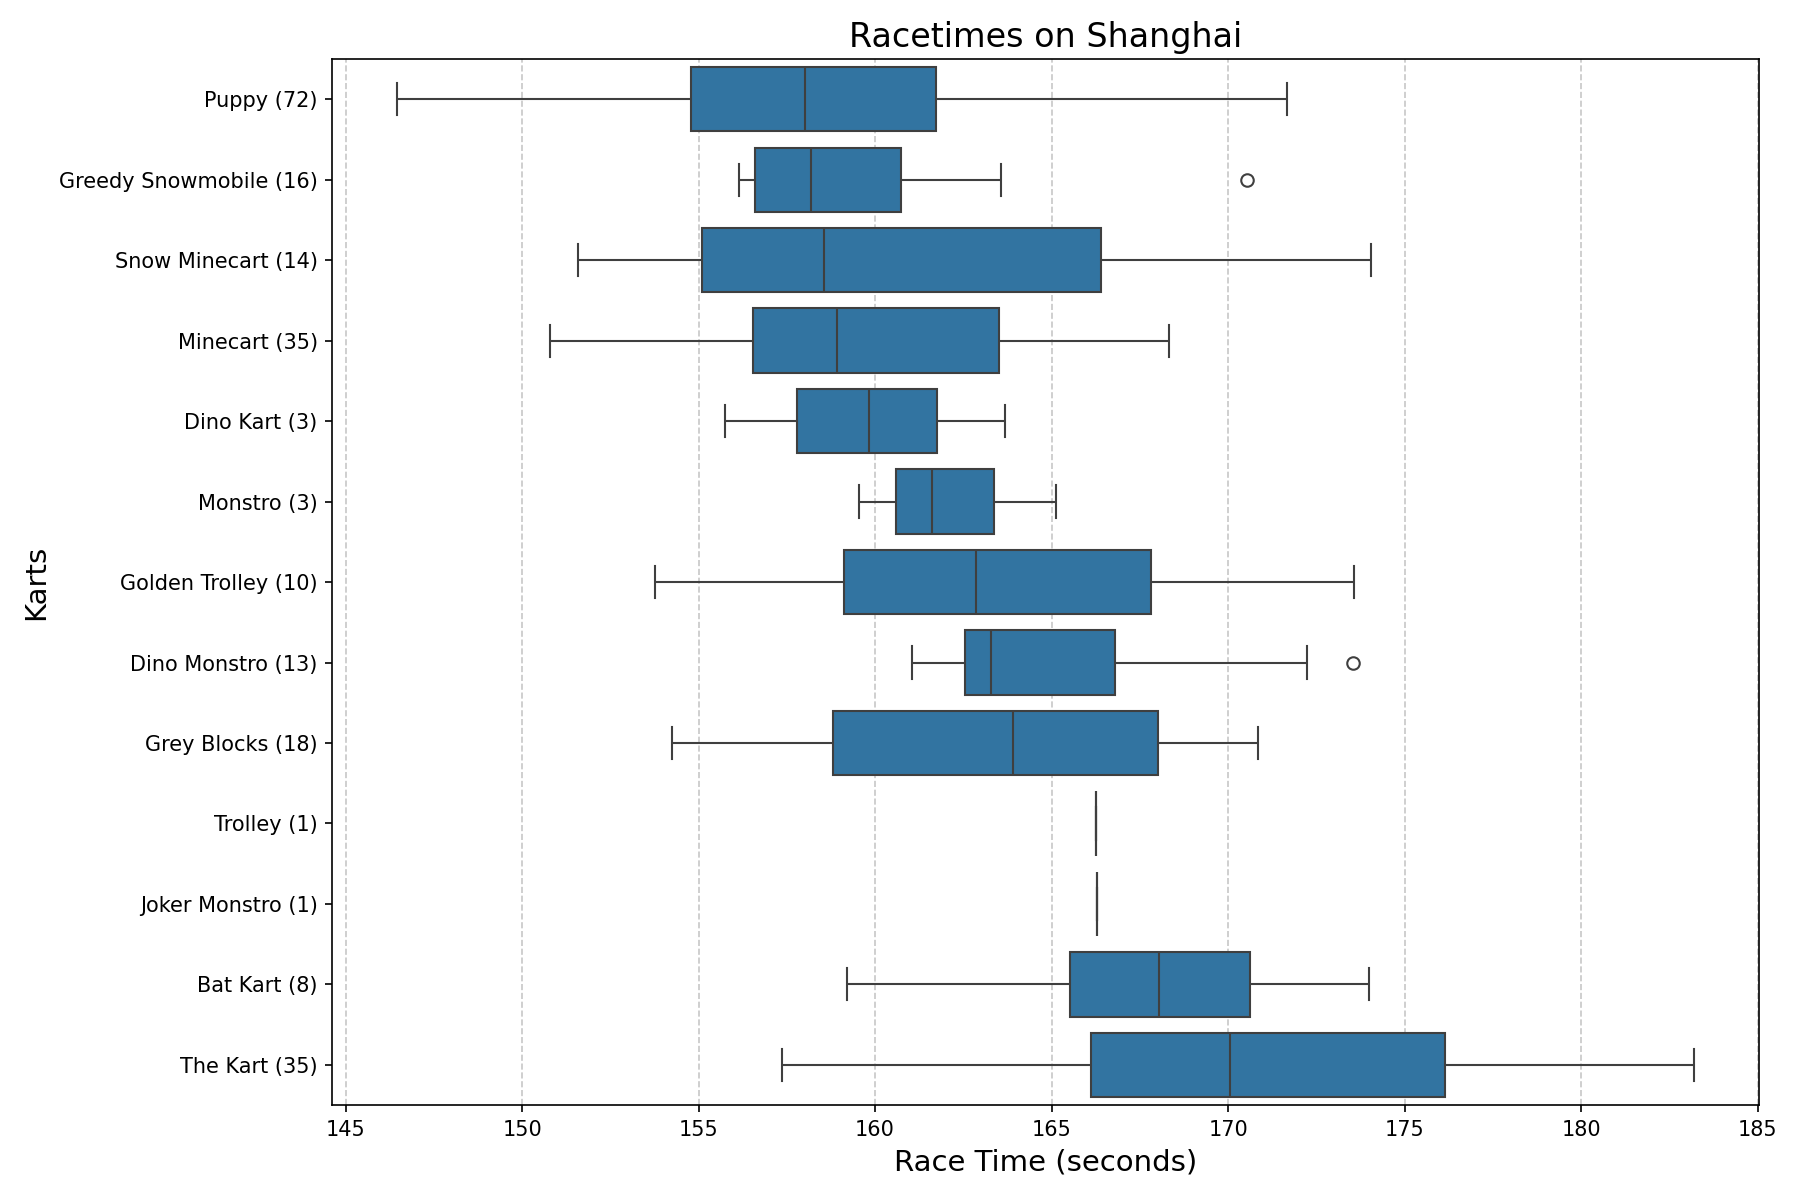
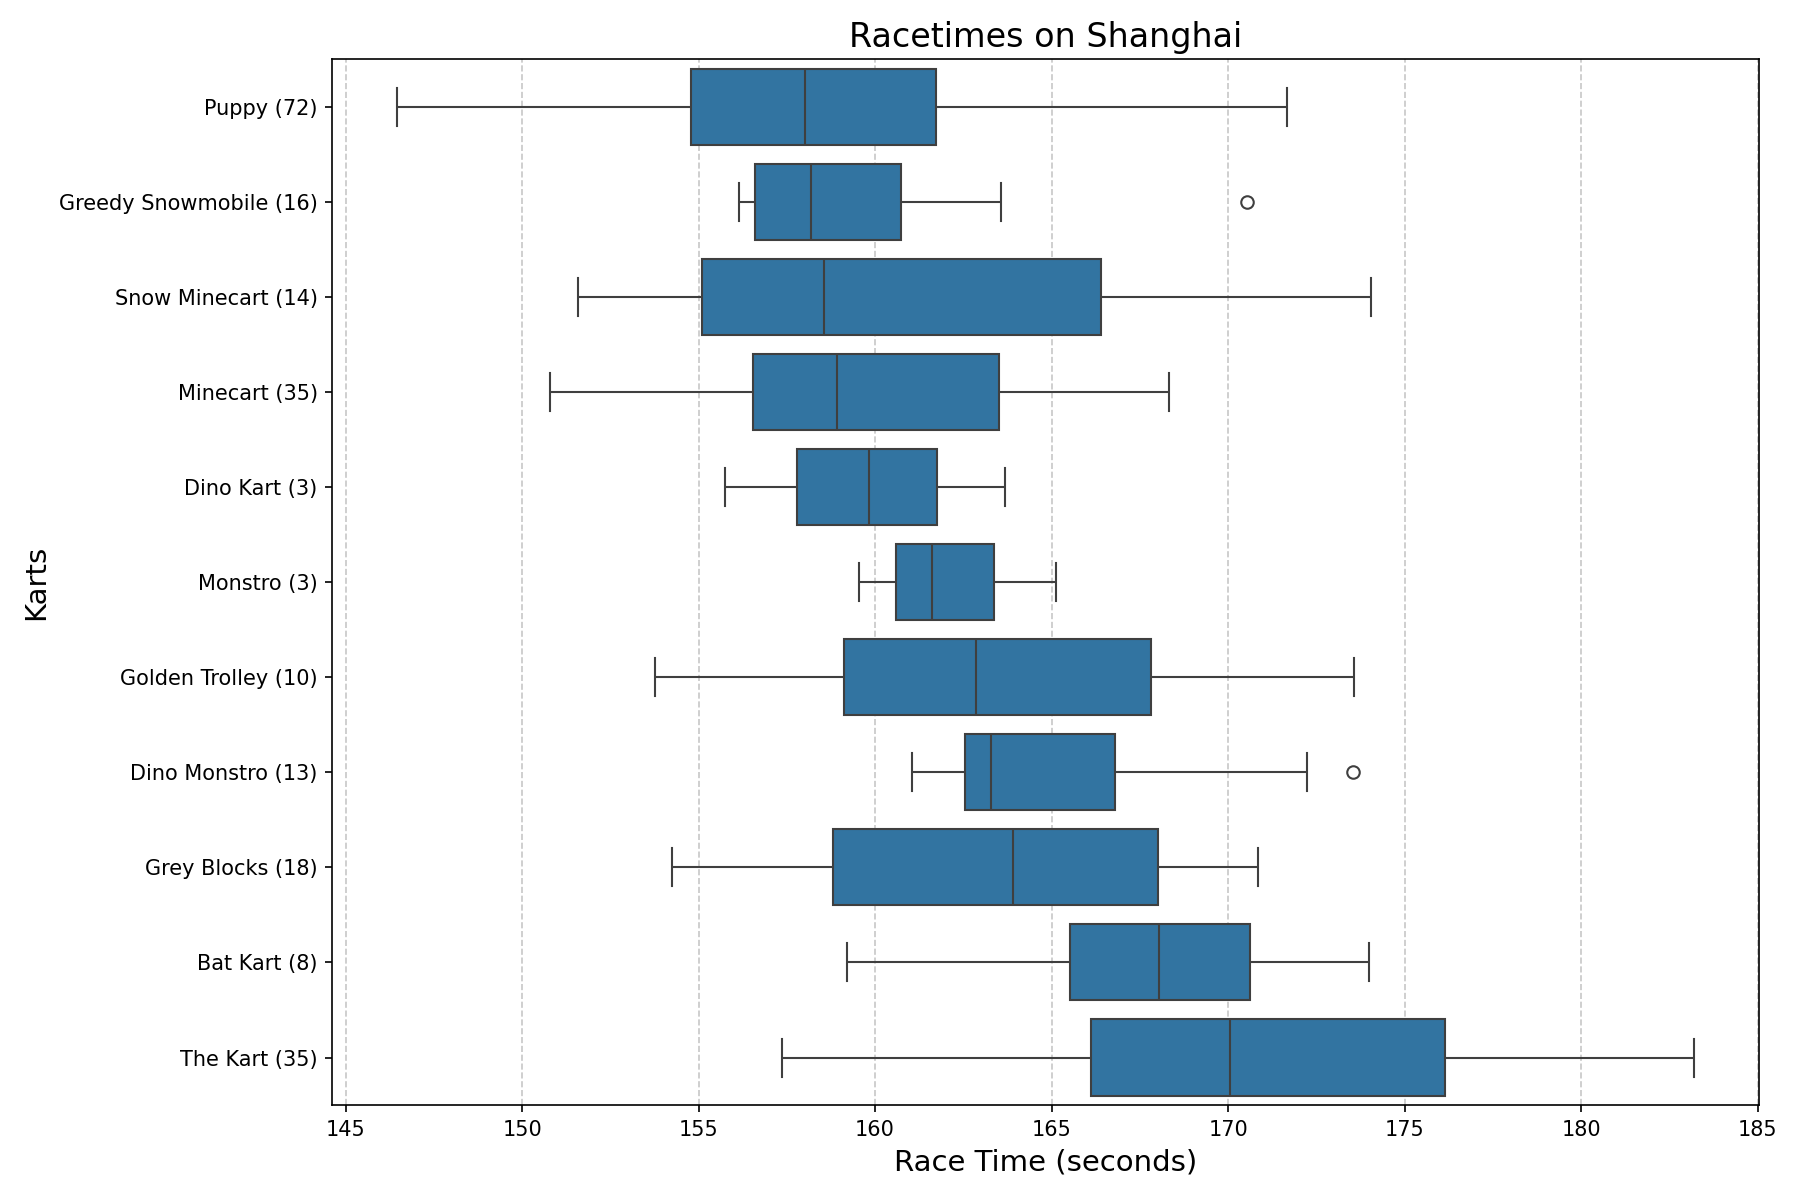
updated racetime box plots logic kart_stats
updated racetime box plots in kart_stats to only display karts if they have at least 6 recorded race times

diff --git a/src/calculations/kart_analysis.py b/src/calculations/kart_analysis.py
@@ -73,6 +73,8 @@ def generate_kart_racetime_box_plots():
         # Prepare data for plotting
         plot_data = []
         kart_counts = {}  # To store race counts for each kart
+        # Filter out karts with less than 3 race times
+        kart_times = {kart: times for kart, times in kart_times.items() if len(times) >= 3}
         for kart, times in kart_times.items():
             kart_counts[kart] = len(times)
             for time in times:
